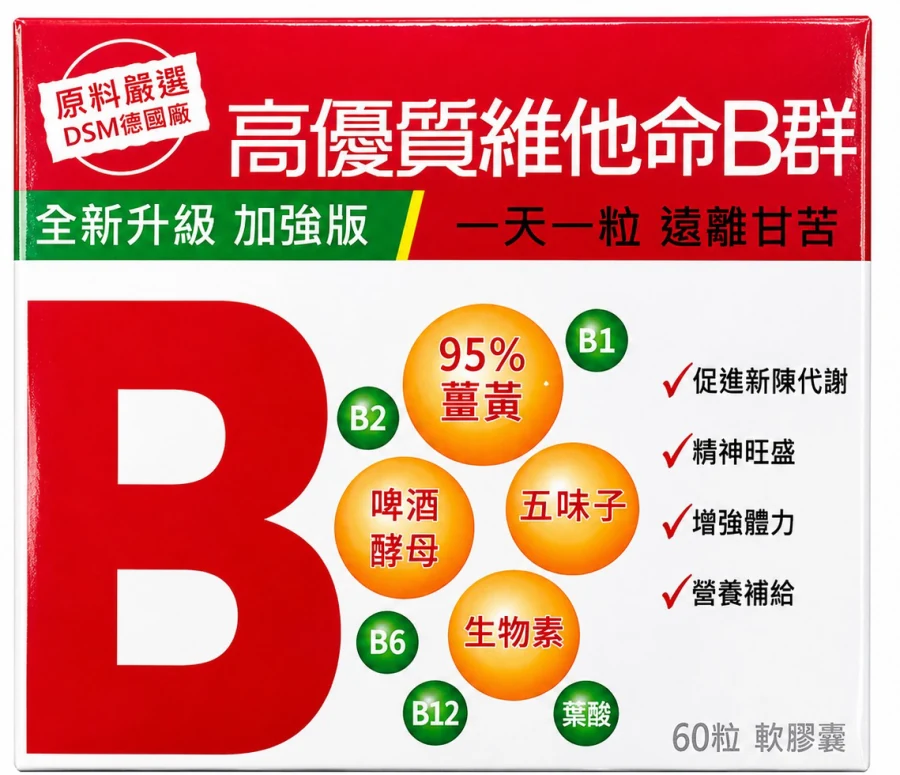
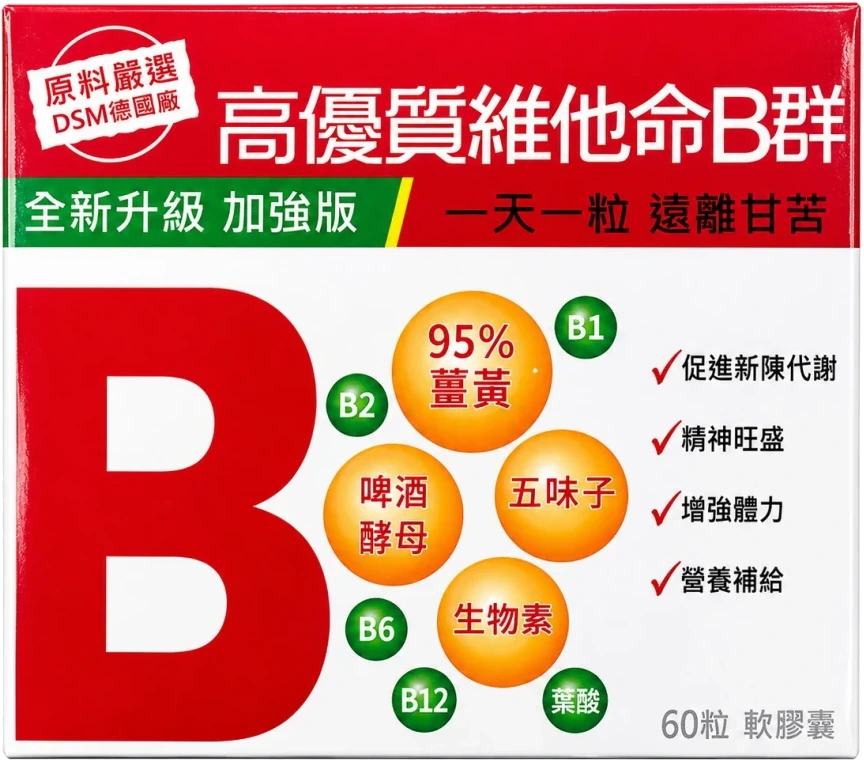
feat(shop): swipeable product showcase for partner pharmacy items (#170)
橫向貨架式品項展示：左右滑動換主角，中央放大、兩側縮小站在同一條
地板線上，背景倒三角色塊跟著主角換色。互動三條路都通 —— pointer
拖曳、左右方向鍵、下方箭頭鈕，桌機與鍵盤使用者不會沒有出口。

拿掉電商語法：不顯示價格、沒有購物車、沒有推薦排序。這一排是用來
看清楚合作藥局放了哪些品項，不是結帳漏斗。

- 標題用「本店品項」而不是「本店有貨商品」：OFFERS=[] 目前沒有任何
  即時庫存，宣稱有貨會和 footer 的免責說明自相矛盾
- 規格與分類同時待確認時整行不顯示；「規格待確認 · 待確認」並排在
  品名下方看起來像頁面沒做完，而不是像誠實揭露
- 側邊品項移除 saturate(0.85)，在米色背景上會讀成髒灰
- 高優質維他命B群補去背：8 張 packshot 只有這張沒有 alpha channel，
  在色塊上會露出白方框。用邊界 flood fill 而不是全域白色 key ——
  包裝正面自己有大片白底，全域 key 會把產品內部挖穿

預覽頁 /shop-showcase-preview 為 dev-only，production 直接 notFound。

Verification:
- npx tsc --noEmit → exit 0
- npm test → 42 files passed, 495 tests passed, 2 skipped
- 瀏覽器實跑 localhost:3177/zh-tw/shop-showcase-preview → 200

diff --git a/web/components/ProductSwipeShowcase.tsx b/web/components/ProductSwipeShowcase.tsx
@@ -1,0 +1,301 @@
+"use client";
+
+import Image from "next/image";
+import Link from "next/link";
+import { useCallback, useEffect, useRef, useState } from "react";
+
+import { useLocale } from "./LocaleProvider";
+import { drugCopy } from "@/lib/i18n";
+import type { Drug } from "@/lib/types";
+
+/**
+ * 品項橫向展示：左右滑動換品項，中央那一支放大，背景色塊跟著換。
+ *
+ * 這是 vidrate 那種「一排商品、滑動換主角」的貨架感，但拿掉電商的價格與
+ * 購物車 —— 消費端頁面不顯示藥品價格，這一排是用來「看清楚有哪些品項」，
+ * 不是結帳漏斗。
+ *
+ * 互動一律三條路都通：觸控滑動（pointer drag）、左右鍵、下方箭頭鈕。
+ * 只做觸控滑動的話，桌機與鍵盤使用者會沒有出口。
+ */
+
+export interface ShowcaseItem {
+  drug: Drug;
+  /** 背景色塊；同一支品項每次都同色，不隨機。 */
+  wedge: string;
+}
+
+/** 可視範圍內主角左右各放幾支。手機縮成 1，桌機 2。 */
+const SIDE_DESKTOP = 2;
+
+export function ProductSwipeShowcase({
+  items,
+  eyebrow,
+  title,
+  hrefPrefix,
+}: {
+  items: readonly ShowcaseItem[];
+  eyebrow?: string;
+  title?: string;
+  /**
+   * 主角連結的前綴，例如 `/zh-tw/drug`。給字串而不是函式 —— Server
+   * Component 不能把函式傳進 Client Component。沒給就只展示不導流。
+   */
+  hrefPrefix?: string;
+}) {
+  const locale = useLocale();
+  const [active, setActive] = useState(0);
+  const [side, setSide] = useState(SIDE_DESKTOP);
+  const [drag, setDrag] = useState(0);
+  const dragStart = useRef<number | null>(null);
+  // 判斷要不要換品項時讀 ref 而不是 state：pointermove 與 pointerup 落在
+  // 同一個批次時，pointerup 的 closure 還看得到舊的 drag，滑動就會失效。
+  const dragDelta = useRef(0);
+  const frameRef = useRef<HTMLDivElement>(null);
+
+  const count = items.length;
+  const go = useCallback(
+    (next: number) => setActive(((next % count) + count) % count),
+    [count],
+  );
+
+  useEffect(() => {
+    const mq = window.matchMedia("(min-width: 768px)");
+    const sync = () => setSide(mq.matches ? SIDE_DESKTOP : 1);
+    sync();
+    mq.addEventListener("change", sync);
+    return () => mq.removeEventListener("change", sync);
+  }, []);
+
+  // 指標拖曳：桌機滑鼠、手機手指同一條路。超過 60px 才換，避免點擊被誤判成滑動。
+  function onPointerDown(event: React.PointerEvent<HTMLDivElement>) {
+    dragStart.current = event.clientX;
+    dragDelta.current = 0;
+    (event.currentTarget as HTMLElement).setPointerCapture(event.pointerId);
+  }
+  function onPointerMove(event: React.PointerEvent<HTMLDivElement>) {
+    if (dragStart.current === null) return;
+    dragDelta.current = event.clientX - dragStart.current;
+    setDrag(dragDelta.current);
+  }
+  function onPointerUp() {
+    if (dragStart.current === null) return;
+    if (dragDelta.current <= -60) go(active + 1);
+    else if (dragDelta.current >= 60) go(active - 1);
+    dragStart.current = null;
+    dragDelta.current = 0;
+    setDrag(0);
+  }
+
+  function onKeyDown(event: React.KeyboardEvent<HTMLDivElement>) {
+    if (event.key === "ArrowRight") {
+      event.preventDefault();
+      go(active + 1);
+    } else if (event.key === "ArrowLeft") {
+      event.preventDefault();
+      go(active - 1);
+    }
+  }
+
+  if (count === 0) return null;
+  const current = items[active];
+  const copy = drugCopy(current.drug, locale);
+  // 規格與分類都還沒確認時整行不顯示。「規格待確認 · 待確認」並排出現在
+  // 品名正下方，看起來像頁面沒做完，而不是像誠實揭露。
+  const specPending = copy.spec === "規格待確認" || copy.spec === "Package size pending";
+  const classPending = copy.drugClass === "待確認" || copy.drugClass === "Classification pending";
+  const metaLine = specPending && classPending
+    ? null
+    : specPending
+      ? copy.drugClass
+      : classPending
+        ? copy.spec
+        : `${copy.spec} · ${copy.drugClass}`;
+
+  /** 環狀位移：-side…+side 之外的品項不畫，DOM 不會因為目錄變長而爆掉。 */
+  function offsetOf(index: number): number | null {
+    let d = index - active;
+    if (d > count / 2) d -= count;
+    if (d < -count / 2) d += count;
+    return Math.abs(d) <= side ? d : null;
+  }
+
+  return (
+    <div className="relative overflow-hidden border border-line bg-paper">
+      {/* 背景色塊：倒三角形，顏色跟著主角換。用 clip-path 而不是圖片，
+          換色是一個 CSS 變數的事，不用再產一輪素材。 */}
+      <div
+        aria-hidden
+        className="pointer-events-none absolute inset-x-0 top-0 h-[46%] transition-colors duration-500"
+        style={{
+          backgroundColor: current.wedge,
+          clipPath: "polygon(0 0, 100% 0, 50% 100%)",
+        }}
+      />
+
+      <div className="relative px-5 pb-7 pt-8 sm:px-8 sm:pb-9 sm:pt-10">
+        {eyebrow && <p className="shop-kicker mb-2 text-center">{eyebrow}</p>}
+        {title && (
+          <h2 className="editorial-display m-0 text-center text-[28px] leading-[1.2] sm:text-[38px]">
+            {title}
+          </h2>
+        )}
+
+        {/* 品項膠囊：只切換主角，不濾清單 —— 這一排是導覽，不是篩選器。
+            手機不換行：換行會變成四排色塊蓋住背景三角，改成單排橫向捲動。 */}
+        <div className="-mx-5 mt-4 flex gap-1.5 overflow-x-auto px-5 pb-1 sm:mx-0 sm:flex-wrap sm:justify-center sm:overflow-visible sm:px-0">
+          {items.map((item, i) => (
+            <button
+              key={item.drug.slug}
+              type="button"
+              onClick={() => go(i)}
+              aria-current={i === active}
+              className={`h-8 max-w-[164px] shrink-0 truncate border px-3 text-[13px] font-medium transition-colors ${
+                i === active
+                  ? "border-forest bg-brand-surface text-on-dark"
+                  : "border-line-strong bg-paper/80 text-ink-2 hover:border-forest hover:text-forest"
+              }`}
+            >
+              {drugCopy(item.drug, locale).name}
+            </button>
+          ))}
+        </div>
+
+        {/* 舞台 */}
+        <div
+          ref={frameRef}
+          role="group"
+          aria-roledescription={locale === "en" ? "carousel" : "輪播"}
+          aria-label={locale === "en" ? "Products at this pharmacy" : "本店品項"}
+          tabIndex={0}
+          onKeyDown={onKeyDown}
+          onPointerDown={onPointerDown}
+          onPointerMove={onPointerMove}
+          onPointerUp={onPointerUp}
+          onPointerCancel={onPointerUp}
+          className="relative mt-5 h-[250px] cursor-grab touch-pan-y select-none outline-offset-4 active:cursor-grabbing sm:h-[300px]"
+        >
+          {items.map((item, i) => {
+            const offset = offsetOf(i);
+            if (offset === null) return null;
+            const isActive = offset === 0;
+            const image = item.drug.image;
+            if (!image) return null;
+            // 位移用「舞台寬度的百分比」而不是商品自身的百分比 —— 用後者
+            // 時側邊那幾支會疊在主角後面看不見，貨架就只剩一支商品。
+            // 手機一側只放一支，間距要拉開，否則側邊品項會壓到主角包裝上。
+            const step = side === 1 ? 40 : 19;
+            const left = 50 + offset * step + drag / 12;
+            return (
+              <button
+                key={item.drug.slug}
+                type="button"
+                tabIndex={-1}
+                aria-hidden={!isActive}
+                onClick={() => go(i)}
+                // 全部站在同一條地板線上（transform-origin: bottom），縮小的
+                // 側邊品項才不會浮在半空中。
+                className="absolute bottom-0 block border-0 bg-transparent p-0 transition-[transform,opacity,filter,left] duration-500 ease-out"
+                style={{
+                  left: `${left}%`,
+                  transformOrigin: "bottom center",
+                  transform: `translateX(-50%) scale(${
+                    isActive ? 1 : Math.abs(offset) === 1 ? 0.66 : 0.48
+                  })`,
+                  opacity: isActive ? 1 : Math.abs(offset) === 1 ? 0.9 : 0.62,
+                  zIndex: 10 - Math.abs(offset),
+                }}
+              >
+                <span className="relative block h-[230px] w-[180px] sm:h-[290px] sm:w-[230px]">
+                  <Image
+                    src={image.src}
+                    alt={locale === "en" ? image.altEn : image.alt}
+                    fill
+                    sizes="(min-width: 768px) 230px, 180px"
+                    className="object-contain object-bottom drop-shadow-[0_10px_24px_rgba(0,0,0,0.18)]"
+                    priority={Math.abs(offset) <= 1}
+                    draggable={false}
+                  />
+                </span>
+              </button>
+            );
+          })}
+        </div>
+
+        {/* 主角資訊。左右鈕改放在下面那排 —— 夾在文字兩側時，手機上的品名
+            與描述只剩不到一半寬度，會被擠成三四行。 */}
+        <div className="mt-5">
+          <div className="mx-auto min-w-0 max-w-[520px] text-center">
+            <p className="m-0 text-[19px] font-bold leading-[1.35] text-ink sm:text-[22px]">
+              {copy.name}
+            </p>
+            {metaLine && (
+              <p className="mx-auto mb-0 mt-1.5 max-w-[460px] text-[14px] leading-[1.6] text-muted">
+                {metaLine}
+              </p>
+            )}
+            <p className="mx-auto mb-0 mt-1 line-clamp-2 max-w-[460px] text-[13px] leading-[1.6] text-muted-2">
+              {locale === "en"
+                ? current.drug.nutritionFocusEn
+                : current.drug.nutritionFocus}
+            </p>
+            {hrefPrefix && (
+              <Link
+                href={`${hrefPrefix}/${current.drug.slug}`}
+                className="action-secondary mt-3.5 inline-flex min-h-11 items-center px-4 text-xs font-medium"
+              >
+                {locale === "en" ? "View item →" : "看這一項 →"}
+              </Link>
+            )}
+          </div>
+        </div>
+
+        {/* 控制列：左右鈕夾著進度條，滑到哪裡與怎麼換都在同一行 */}
+        <div className="mt-5 flex items-center justify-center gap-4">
+          <ArrowButton
+            dir="prev"
+            label={locale === "en" ? "Previous product" : "上一項"}
+            onClick={() => go(active - 1)}
+          />
+          <div className="flex gap-1.5">
+            {items.map((item, i) => (
+              <span
+                key={item.drug.slug}
+                aria-hidden
+                className={`h-[3px] w-5 transition-colors sm:w-6 ${
+                  i === active ? "bg-forest" : "bg-line-strong"
+                }`}
+              />
+            ))}
+          </div>
+          <ArrowButton
+            dir="next"
+            label={locale === "en" ? "Next product" : "下一項"}
+            onClick={() => go(active + 1)}
+          />
+        </div>
+      </div>
+    </div>
+  );
+}
+
+function ArrowButton({
+  dir,
+  label,
+  onClick,
+}: {
+  dir: "prev" | "next";
+  label: string;
+  onClick: () => void;
+}) {
+  return (
+    <button
+      type="button"
+      onClick={onClick}
+      aria-label={label}
+      className="flex h-11 w-11 shrink-0 items-center justify-center border border-line-strong bg-paper text-[16px] text-ink-2 transition-colors hover:border-forest hover:text-forest"
+    >
+      {dir === "prev" ? "←" : "→"}
+    </button>
+  );
+}

diff --git a/web/app/shop-showcase-preview/page.tsx b/web/app/shop-showcase-preview/page.tsx
@@ -1,0 +1,53 @@
+import { notFound } from "next/navigation";
+
+import { ProductSwipeShowcase, type ShowcaseItem } from "@/components/ProductSwipeShowcase";
+import { SiteFooter } from "@/components/SiteFooter";
+import { SiteHeader } from "@/components/SiteHeader";
+import { allDrugs } from "@/lib/data";
+import { localizedPath } from "@/lib/i18n";
+import { getRequestLocale } from "@/lib/locale-server";
+
+// Dev-only visual preview for the swipeable product showcase. Not linked anywhere.
+
+/** 每支品項一個固定色塊。取自包裝主色，不是隨機配色。 */
+const WEDGE: Record<string, string> = {
+  "greenplus-elgucare": "#c9dcc2",
+  "huamao-progifted-lp28": "#bcd9c4",
+  "tianxia-chan-c-80": "#f0c94f",
+  "chungchi-ganmeijia-coral-ca": "#f0b8a8",
+  "gaoyouzhi-vitamin-b-60": "#e3a0a0",
+  "chungchi-yiyuansu-gastrodia-100": "#e8c98a",
+  "yuanding-puregps-defense-450": "#a9c6e0",
+  "aob-vitality-beauty-45": "#cfe0b6",
+};
+
+export default async function ShopShowcasePreviewPage() {
+  if (process.env.NODE_ENV === "production") notFound();
+
+  const locale = await getRequestLocale();
+  const items: ShowcaseItem[] = allDrugs()
+    .filter((drug) => drug.image?.kind === "packshot" && WEDGE[drug.slug])
+    .map((drug) => ({ drug, wedge: WEDGE[drug.slug] }));
+
+  return (
+    <>
+      <SiteHeader area="datong" />
+      <section className="bg-ivory">
+        <div className="shop-shell py-10 sm:py-14">
+          <ProductSwipeShowcase
+            items={items}
+            eyebrow="AT THIS PHARMACY"
+            title={locale === "en" ? "Items at this pharmacy" : "本店品項"}
+            hrefPrefix={localizedPath("/drug", locale)}
+          />
+          <p className="mt-4 text-[13px] leading-[1.7] text-muted-2">
+            {locale === "en"
+              ? "Dev-only preview. Swipe, drag, arrow keys, or the buttons all move the shelf."
+              : "開發預覽頁。左右滑動、拖曳、方向鍵與按鈕都可以換品項。"}
+          </p>
+        </div>
+      </section>
+      <SiteFooter note={locale === "en" ? "Internal preview." : "內部預覽頁。"} />
+    </>
+  );
+}
